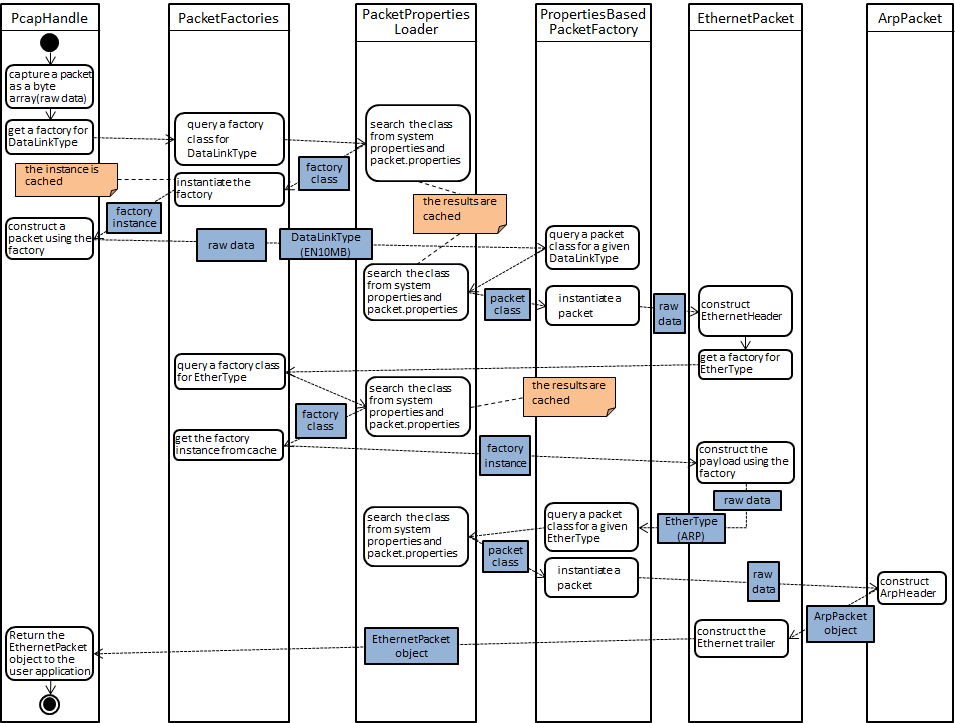
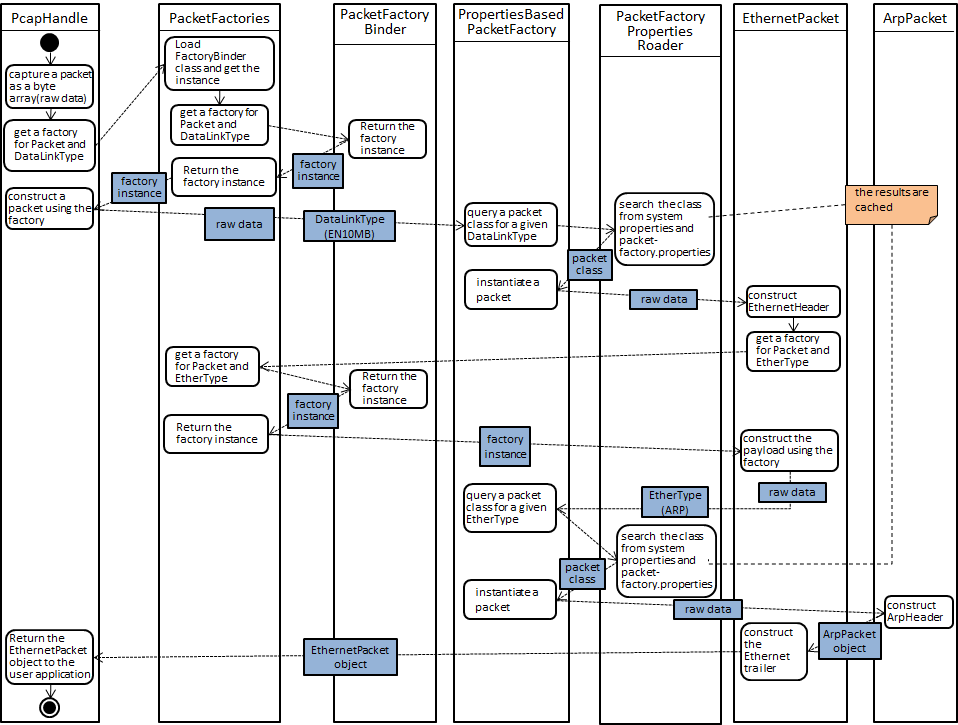
Update docs

Changed region(s): [[0.0, 0.0, 1.0, 1.0], [0.0304, 0.0, 0.0911, 0.0304], [0.8199, 0.2739, 0.8503, 0.3043]]

diff --git a/www/HowToAddProtocolSupport.md b/www/HowToAddProtocolSupport.md
@@ -3,7 +3,7 @@ How to add a protocol support
 
 1. Write your packet class<br>
   A packet class must implement org.pcap4j.packet.Packet interface.
-  Actually, in most cases, it would be better to extend org.pcap4j.packet.AbstractPacket class,
+  Actually, in most cases, you should extend org.pcap4j.packet.AbstractPacket class,
   which is an abstract class implementing many of Packet's methods, so you can save your time.
 
   And It's recommended to write a static factory method in the packet class such as below:
@@ -24,27 +24,25 @@ How to add a protocol support
   * Building its builder object in the getBuilder method.
 
 2. Configure packet factory<br>
-  There are some ways to configure packet factory for your packet class.
-  For example, if your packet class represents a protocol on TCP and the port number is 1234,
-  modify `jar:file:/path/to/pcap4j.jar!/org/pcap4j/packet/packet.properties` as below:
+  There are some ways to configure packet factory for your packet class. You'll see some examples using [PropertiesBasedPacketFactory](/www/Packet.md#properties_based_packet_factory) here.
+  If your packet class represents a protocol over TCP and the port number is 1234,
+  modify `jar:file:/path/to/pcap4j-packetfactory-propertiesbased.jar!/org/pcap4j/packet/factory/packet-factory.properties` as below:
 
         (snip)
+        
         ## TCP Port (http://www.iana.org/assignments/service-names-port-numbers/service-names-port-numbers.xml)
-        #org.pcap4j.packet.Packet.classifiedBy.org.pcap4j.packet.namednumber.TcpPort.isMadeBy org.pcap4j.packet.factory.StaticTcpPortPacketFactory
-        ## Uncomment this line to enable PropertiesBasedPacketFactory for TcpPort
-        org.pcap4j.packet.Packet.classifiedBy.org.pcap4j.packet.namednumber.TcpPort.isMadeBy org.pcap4j.packet.factory.PropertiesBasedPacketFactory
         ## Add this line to let PropertiesBasedPacketFactory instantiate YourPacket class by the port 1234.
         org.pcap4j.packet.Packet.classFor.org.pcap4j.packet.namednumber.TcpPort.1234 = org.pcap4j.packet.YourPacket
         #org.pcap4j.packet.Packet.classFor.org.pcap4j.packet.namednumber.TcpPort.161 = org.pcap4j.packet.SnmpPacket # not implemented
+        
         (snip)
 
-  If you don't want to modify packet.properties in pcap4j.jar, add the following system properties before starting a packet capture:
+  If you don't want to modify packet-factory.properties in the jar, add the following system properties before starting a packet capture:
 
-        org.pcap4j.packet.Packet.classifiedBy.org.pcap4j.packet.namednumber.TcpPort.isMadeBy=org.pcap4j.packet.factory.PropertiesBasedPacketFactory
         org.pcap4j.packet.Packet.classFor.org.pcap4j.packet.namednumber.TcpPort.1234 = org.pcap4j.packet.YourPacket
 
-  Note system properties are always take precedence over properties in packet.properties.
+  Note system properties always take precedence over properties in packet-factory.properties.
 
-  There is another way to do the same thing. If a system property org.pcap4j.packet.properties is set,
+  There is another way to do the same thing. If a system property org.pcap4j.packet.factory.properties is set,
   Pcap4J will load the file the property specifies using java.lang.ClassLoader#getResourceAsStream method and
-  use it instead of packet.properties in pcap4j.jar.
+  use it instead of packet-factory.properties in pcap4j-packetfactory-propertiesbased.jar.

diff --git a/README_ja.md b/README_ja.md
@@ -19,9 +19,9 @@ Pcap4J 0.9.13 (このページから配布する最後のバージョン)
 
 * [pcap4j.jar](https://github.com/downloads/kaitoy/pcap4j/pcap4j.jar)
 
-Pcap4J 0.9.15 (Maven Central Repositoryにある最新バージョン)
+Pcap4J 1.0.0 (Maven Central Repositoryにある最新バージョン)
 
-* [pcap4j-0.9.15.jar](http://search.maven.org/remotecontent?filepath=org/pcap4j/pcap4j/0.9.15/pcap4j-0.9.15.jar)
+* [pcap4j-distribution-1.0.0-src.zip](http://search.maven.org/remotecontent?filepath=org/pcap4j/pcap4j-distribution/1.0.0/pcap4j-distribution-1.0.0-src.zip)
 
 開発経緯
 --------
@@ -128,8 +128,13 @@ pom.xmlに以下のような記述を追加する。
         <dependencies>
           <dependency>
             <groupId>org.pcap4j</groupId>
-            <artifactId>pcap4j</artifactId>
-            <version>0.9.15</version>
+            <artifactId>pcap4j-core</artifactId>
+            <version>1.0.0</version>
+          </dependency>
+          <dependency>
+            <groupId>org.pcap4j</groupId>
+            <artifactId>pcap4j-packetfactory-static</artifactId>
+            <version>1.0.0</version>
           </dependency>
              ...
         </dependencies>
@@ -172,9 +177,9 @@ Eclipseからのビルド手順は以下。
    ステップ3をスキップした場合は、[zip](https://github.com/kaitoy/pcap4j/zipball/master)でダウンロードして展開する。
 5. プロジェクトのインポート<br>
   EclipseのGUIで、[ファイル]＞[インポート] を開き、
-  「一般」の「既存プロジェクトをワークスペースへ」で 3. でダウンロードしたレポジトリ内のプロジェクトをインポートする。
+  「一般」の「既存プロジェクトをワークスペースへ」で 3. でダウンロードしたレポジトリ内の全プロジェクトをインポートする。
 6. ビルド<br>
-   EclipseのGUIのプロジェクト・エクスプローラーで、Pcap4Jのプロジェクトを右クリックして、
+   EclipseのGUIのプロジェクト・エクスプローラーで、Pcap4Jの親プロジェクトを右クリックして、
    [実行]＞[Maven package] か [実行]＞[Maven install] を実行する。
    unit testを通すためにはAdministrator/root権限が必要。
 
@@ -234,10 +239,10 @@ Pcap4J is distributed under the MIT license.
 おまけ
 ------
 
-Pcap4J 0.9.15 を使ったSNMPネットワークシミュレータ、SNeO。
+Pcap4J 1.0.0 を使ったSNMPネットワークシミュレータ、SNeO。
 とりあえず置いておくだけ。
 商用でもなんでも無料で使用可。コピーも再配布も可。
 
-SNeO 1.0.12
+SNeO 1.1.0
 
 * [sneo.jar](http://www.pcap4j.org/artifacts/sneo.jar)

diff --git a/README.md b/README.md
@@ -19,9 +19,9 @@ Pcap4J 0.9.13 (last version distributed from this page)
 
 * [pcap4j.jar](https://github.com/downloads/kaitoy/pcap4j/pcap4j.jar)
 
-Pcap4J 0.9.15 (latest version on Maven Central Repository)
+Pcap4J 1.0.0 (latest version on Maven Central Repository)
 
-* [pcap4j-0.9.15.jar](http://search.maven.org/remotecontent?filepath=org/pcap4j/pcap4j/0.9.15/pcap4j-0.9.15.jar)
+* [pcap4j-distribution-1.0.0-src.zip](http://search.maven.org/remotecontent?filepath=org/pcap4j/pcap4j-distribution/1.0.0/pcap4j-distribution-1.0.0-src.zip)
 
 Why Pcap4J was born
 --------
@@ -128,8 +128,13 @@ Add a dependency to the pom.xml as like below:
         <dependencies>
           <dependency>
             <groupId>org.pcap4j</groupId>
-            <artifactId>pcap4j</artifactId>
-            <version>0.9.15</version>
+            <artifactId>pcap4j-core</artifactId>
+            <version>1.0.0</version>
+          </dependency>
+          <dependency>
+            <groupId>org.pcap4j</groupId>
+            <artifactId>pcap4j-packetfactory-static</artifactId>
+            <version>1.0.0</version>
           </dependency>
              ...
         </dependencies>
@@ -175,9 +180,9 @@ The build procedure using Eclipse is the following:
 5. Import the Eclipse project<br>
    In the Eclipse, select [File] > [Import]  to open the "Import" wizard.
    Select [General] > [Existing Projects into Workspace] and
-   follow the wizard to import the project in the Pcap4J repository.
+   follow the wizard to import the all projects in the Pcap4J repository.
 6. Build<br>
-   Right-click the Pcap4J project in the Project Explorer of Eclipse and select [Run as] > [Maven install].
+   Right-click the parent project in the Project Explorer of Eclipse and select [Run as] > [Maven install].
    Note administrator/root privileges are needed for the unit tests.
 
 For your information, M2E was formerly called [m2eclipse](http://m2eclipse.sonatype.org/).
@@ -226,9 +231,9 @@ Pcap4J is distributed under the MIT license.
 Extra
 -----
 
-SNeO: An SNMP Network Simulator using Pcap4J 0.9.15 is available at the link below. The documents will come someday.
+SNeO: An SNMP Network Simulator using Pcap4J 1.0.0 is available at the link below. The documents will come someday.
 You can use SNeO in both personal and commercial for free. You can also copy and redistribute it with no restriction.
 
-SNeO 1.0.12
+SNeO 1.1.0
 
 * [sneo.jar](http://www.pcap4j.org/artifacts/sneo.jar)

diff --git a/www/PacketFactory.md b/www/PacketFactory.md
@@ -1,10 +1,23 @@
 Packet Factory
 ==============
 
-<h3 id="static_packet_factory">StaticPacketFactory</h3>
-Default packet factory.
-<img alt="StaticPacketFactory" title="StaticPacketFactory" src="https://github.com/kaitoy/pcap4j/raw/master/www/images/staticPacketFactory.png" />
+<h3 id="static_packet_factory">PacketFactoryBinder</h3>
+[PacketFactoryBinder](https://github.com/kaitoy/pcap4j/blob/master/pcap4j-core/src/main/java/org/pcap4j/packet/factory/PacketFactoryBinder.java)
+is similar to StaticLoggerBinder of SLF4J.
+It binds [PacketFactory](https://github.com/kaitoy/pcap4j/blob/master/pcap4j-core/src/main/java/org/pcap4j/packet/factory/PacketFactory.java) implementations to the Pcap4J Core module.
 
-<h3 id="properties_based_packet_factory">PropertiesBasedPacketFactory</h3>
-<img alt="PropertiesBasedPacketFactory" title="PropertiesBasedPacketFactory" src="https://github.com/kaitoy/pcap4j/raw/master/www/images/propertiesBasedPacketFactory.png" />
+PacketFactory implementations are used to instantiate
+Packet classes (e.g. [EthernetPacket](https://github.com/kaitoy/pcap4j/blob/master/pcap4j-core/src/main/java/org/pcap4j/packet/EthernetPacket.java))
+and packet piese classes (e.g. [IpV4Rfc1349Tos](https://github.com/kaitoy/pcap4j/blob/master/pcap4j-core/src/main/java/org/pcap4j/packet/IpV4Rfc1349Tos.java))
+included in Pcap4J Core module, namely pcap4j-core.jar.
+
+PacketFactoryBinder class is included in Pcap4J Core module source but it is a dummy and removed in the assembry process.
+Actual PacketFactoryBinder class is in Static Packet Factory module (pcap4j-packetfactory-static.jar) and Properties-Based Packet Factory (pcap4j-packetfactory-propertiesbased.jar),
+which also include PacketFactory implementations.
+
+<h3 id="static_packet_factory">Static Packet Factory</h3>
+<img alt="Static Packet Factory" title="Static Packet Factory" src="https://github.com/kaitoy/pcap4j/raw/master/www/images/staticPacketFactory.png" />
+
+<h3 id="properties_based_packet_factory">Properties-Based Packet Factory</h3>
+<img alt="Properties-Based Packet Factory" title="Properties-Based Packet Factory" src="https://github.com/kaitoy/pcap4j/raw/master/www/images/propertiesBasedPacketFactory.png" />
 

diff --git a/CHANGES.md b/CHANGES.md
@@ -1,4 +1,4 @@
-Next Release
+Release 1.0.0 (17-Jun-2013)
 ============
 ### New Features ###
 * Add pcap APIs support: pcap_setnonblock, pcap_getnonblock, lookupNet, dispatch, pcap_compile_nopcap,
@@ -9,6 +9,7 @@ Next Release
                          pcap_lib_version, pcap_dump_flush
 * Add Ubuntu support.
 * Add getReturnCode method to PcapNativeException.
+* [Issues#3](https://github.com/kaitoy/pcap4j/issues/3): Change to a multi-module project.
 
 ### Bug Fixes ###
 * Fix org.pcap4j.packet.IpV6NeighborDiscoveryPrefixInformationOption#getRawData() to return correct prefixLength.
@@ -16,7 +17,6 @@ Next Release
 * Fix org.pcap4j.core.Pcaps.openDead() to return opened PcapHandle.
 
 ### Other Changes ###
-* [Issues#3](https://github.com/kaitoy/pcap4j/issues/3): Change to a multi-module project.
 * Modify org.pcap4j.core.PcapHandle and org.pcap4j.core.PcapDumper to throw NotOpenException instead of IllegalStateException.
 * Change a package of class: org.pcap4j.core.PcapHandle.BpfCompileMode -> org.pcap4j.core.BpfProgram.BpfCompileMode
 * Change class names:

diff --git a/www/sample_SendArpRequest.md b/www/sample_SendArpRequest.md
@@ -3,7 +3,7 @@ a sample class which sends ARP request and resolves an IP address to a MAC addre
 In the following example, this sample is executed on Linux to resolve 192.168.209.1.
 
 
-      [root@localhost Desktop]# java -cp pcap4j.jar:jna-3.3.0.jar:slf4j-api-1.6.4.jar org.pcap4j.sample.SendArpRequest 192.168.209.1
+      [root@localhost Desktop]# java -cp pcap4j-core.jar:pcap4j-packetfactory-static.jar:pcap4j-sample.jar:jna-3.5.2.jar:slf4j-api-1.6.4.jar org.pcap4j.sample.SendArpRequest 192.168.209.1
       org.pcap4j.sample.SendArpRequest.count: 1
       org.pcap4j.sample.SendArpRequest.readTimeout: 10
       org.pcap4j.sample.SendArpRequest.maxCapLen: 65536

diff --git a/www/sample_Loop.md b/www/sample_Loop.md
@@ -3,7 +3,7 @@ a sample class which captures packets and dumps them.
 In the following example, this sample is executed on Linux to capture two ICMP packets via eth2.
 
 
-      [root@localhost Desktop]# java -cp pcap4j.jar:jna-3.3.0.jar:slf4j-api-1.6.4.jar -Dorg.pcap4j.sample.Loop.count=2 org.pcap4j.sample.Loop icmp
+      [root@localhost Desktop]# java -cp pcap4j-core.jar:pcap4j-packetfactory-static.jar:pcap4j-sample.jar:jna-3.5.2.jar:slf4j-api-1.6.4.jar -Dorg.pcap4j.sample.Loop.count=2 org.pcap4j.sample.Loop icmp
       org.pcap4j.sample.Loop.count: 2
       org.pcap4j.sample.Loop.readTimeout: 10
       org.pcap4j.sample.Loop.maxCapLen: 65536
